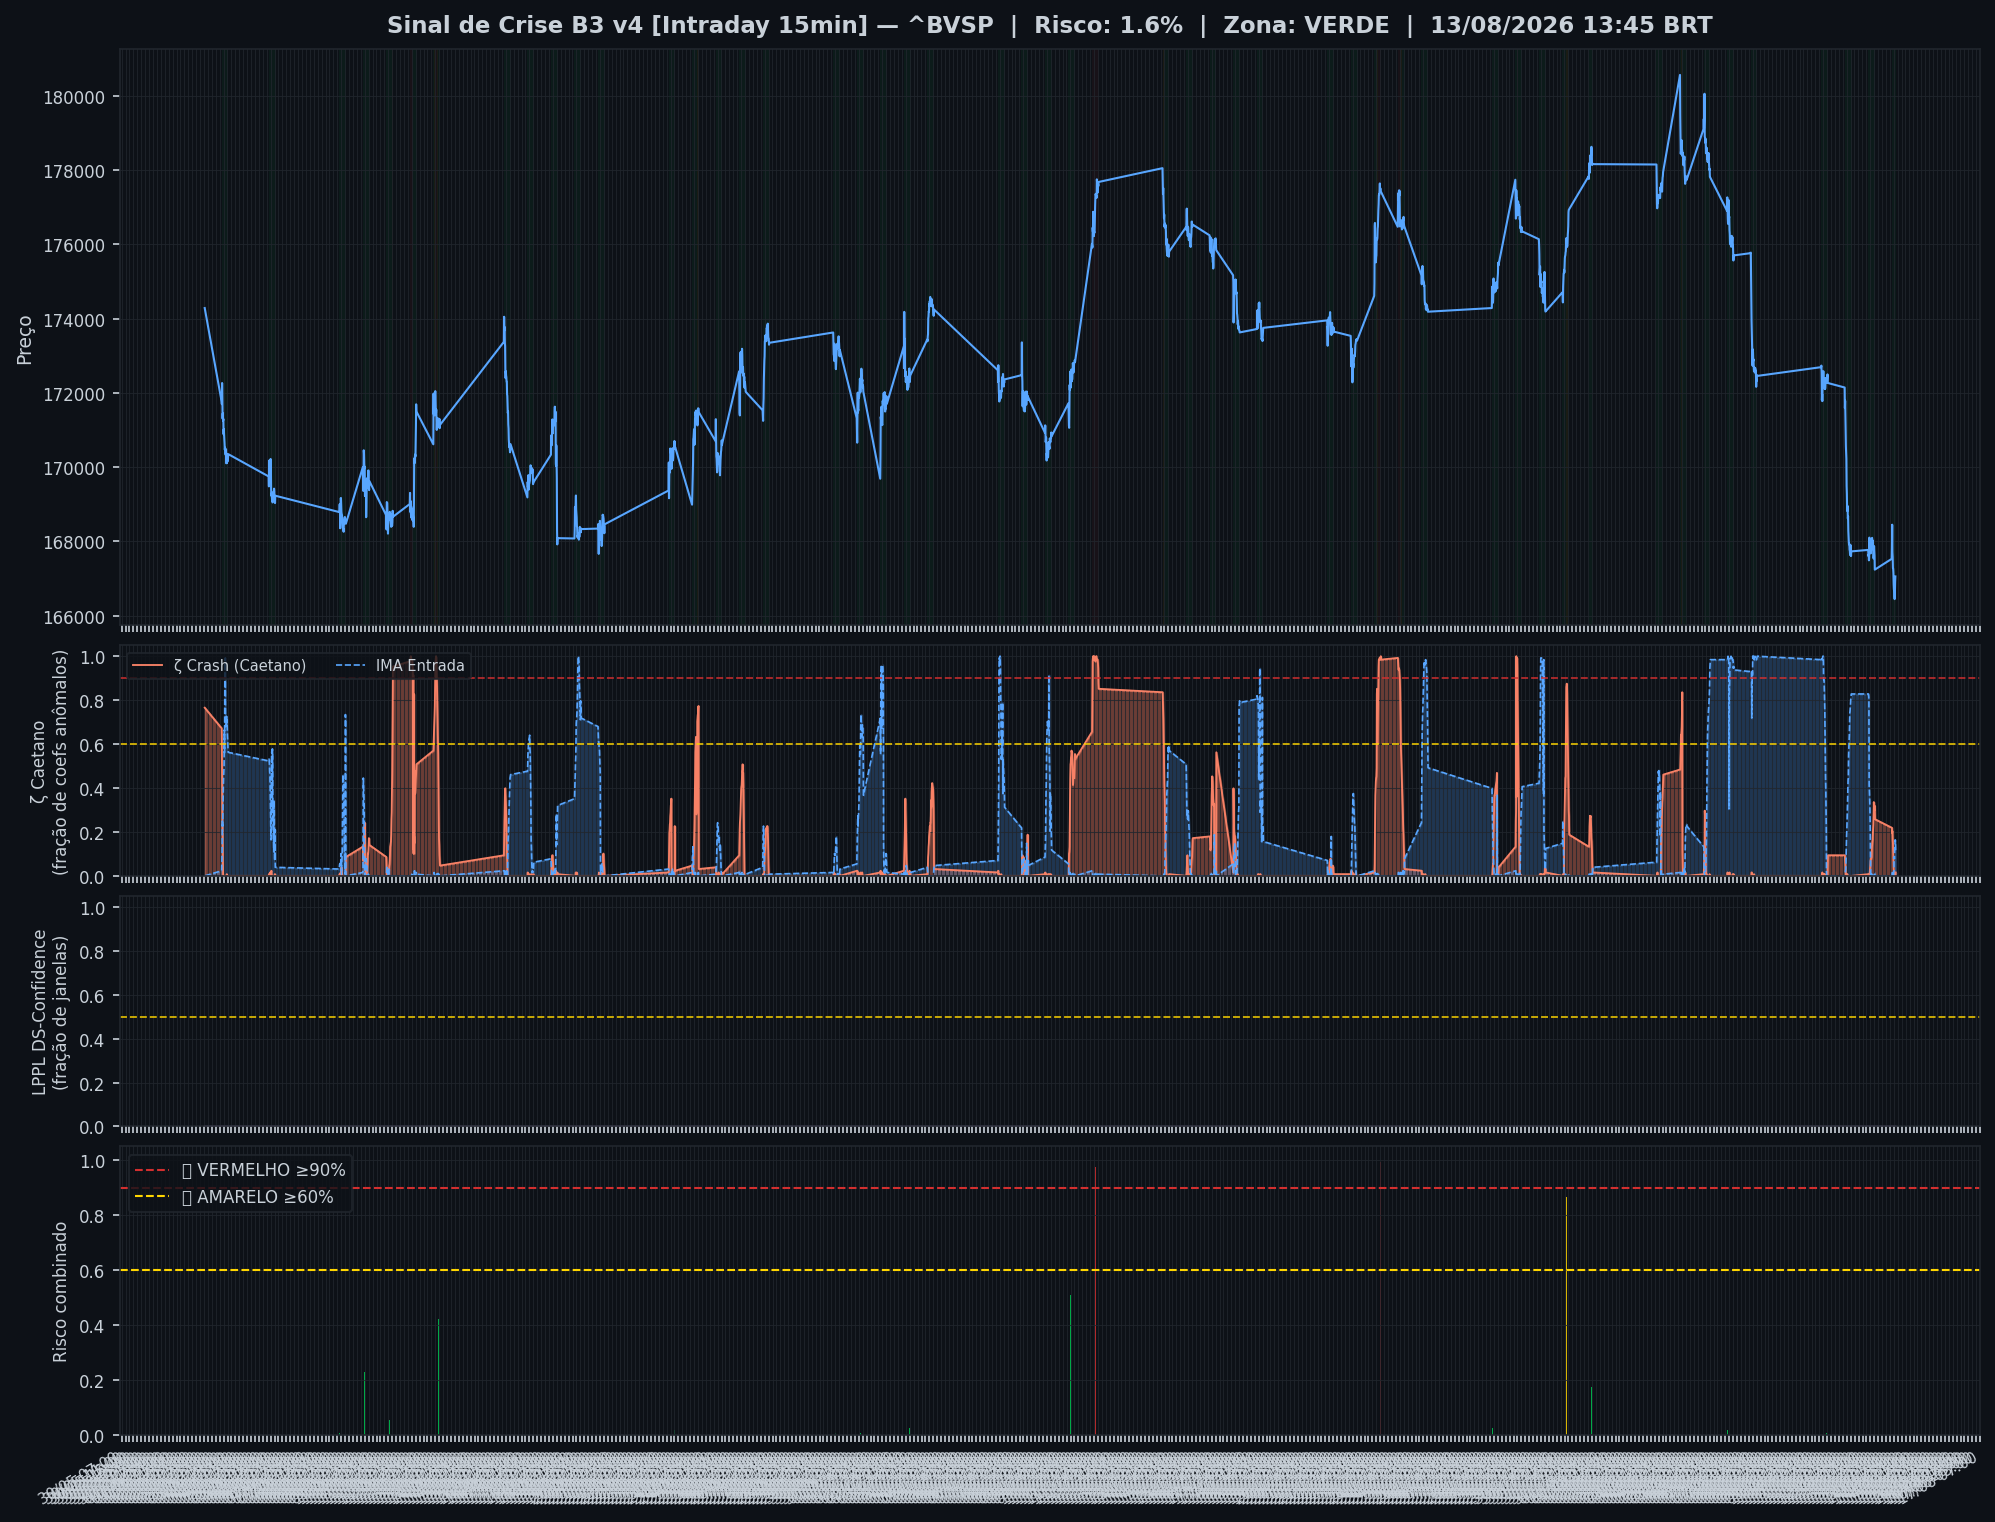
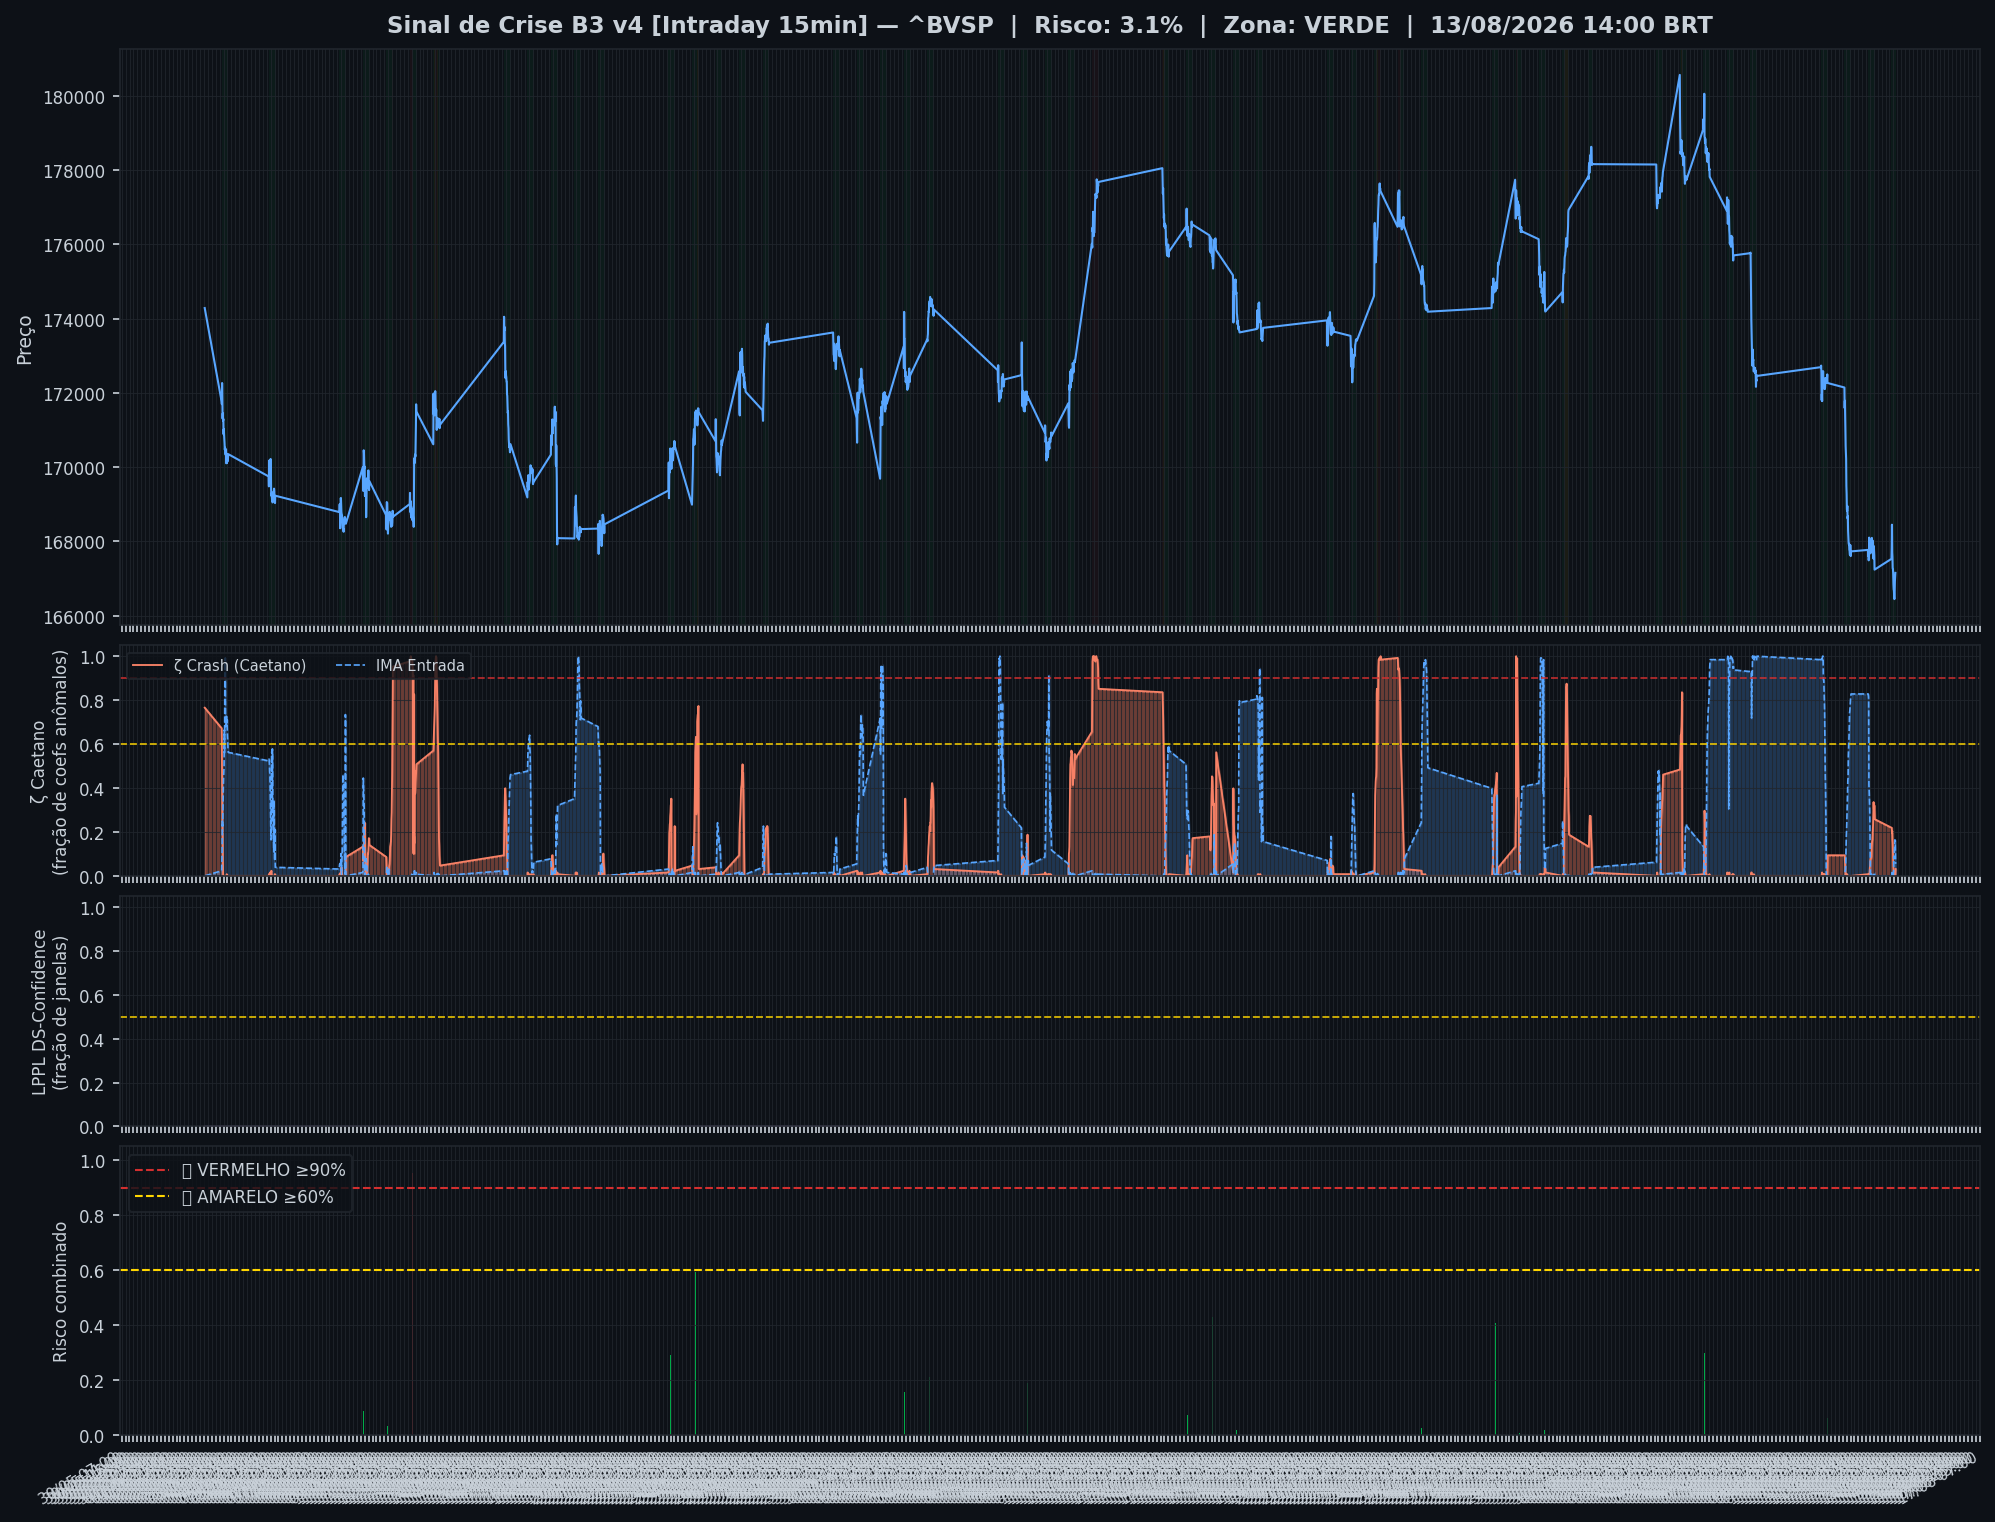
🤖 Auto: Sinal 13/08/2026 14:45

diff --git a/content/intraday/2026-08-13.md b/content/intraday/2026-08-13.md
@@ -1,20 +1,20 @@
 ---
-title: "🟢 Intraday 13/08/2026 13:45 BRT — VERDE"
+title: "🟢 Intraday 13/08/2026 14:00 BRT — VERDE"
 date: 2026-08-13
 tags: [intraday]
 ---
 
-> [!success] 🟢 **VERDE** — Risco 2% · ▲ +2 p.p. vs leitura anterior
-> `░░░░░░░░░░░░░░░░░░░░`
+> [!success] 🟢 **VERDE** — Risco 3% · ▲ +2 p.p. vs leitura anterior
+> `█░░░░░░░░░░░░░░░░░░░`
 > Mercado sem sinais relevantes de estresse.
 
 
 | Indicador | Valor |
 |---|---|
-| 🔴 ζ Crash — severidade da queda em curso | **2%** |
-| 🔵 ζ Entrada — estrutura de fundo | 12% |
+| 🔴 ζ Crash — severidade da queda em curso | **3%** |
+| 🔵 ζ Entrada — estrutura de fundo | 5% |
 | 🫧 LPPL DS-Confidence | 0% |
-| 📊 Ibovespa | 167.053 pts |
+| 📊 Ibovespa | 167.149 pts |
 
 ![Gráfico do sinal](../graficos/sinal_intraday.png)
 
@@ -22,6 +22,7 @@ tags: [intraday]
 
 | Data | Zona | Risco | IMA Crash | Entrada | LPPL |
 |---|---|---|---|---|---|
+| 2026-08-13 14:00 | 🟢 VERDE | **3%** | 3% | 5% | 0% |
 | 2026-08-13 13:45 | 🟢 VERDE | **2%** | 2% | 12% | 0% |
 | 2026-08-13 13:30 | 🟢 VERDE | **0%** | 0% | 16% | 0% |
 | 2026-08-13 13:15 | 🟢 VERDE | **0%** | 0% | 16% | 0% |
@@ -51,7 +52,6 @@ tags: [intraday]
 | 2026-08-12 14:15 | 🟢 VERDE | **16%** | 16% | 0% | 0% |
 | 2026-08-12 14:00 | 🟢 VERDE | **16%** | 16% | 0% | 0% |
 | 2026-08-12 13:45 | 🟢 VERDE | **14%** | 14% | 0% | 0% |
-| 2026-08-12 13:30 | 🟢 VERDE | **12%** | 12% | 1% | 0% |
 
 ## Monitor Multi-Ativo
 
@@ -59,36 +59,36 @@ tags: [intraday]
 
 | Zona | Ativo | Setor | IMA Crash | IMA Entrada |
 |---|---|---|---|---|
-| 🟢 | **VALE** | Mineração | 1.6% | 46.1% |
-| 🟢 | **PETROBRAS** | Petróleo | 1.6% | 46.1% |
-| 🟢 | **ITAUSA** | Financeiro | 1.6% | 46.1% |
-| 🟢 | **SUZANO S.A.** | Papel/Celulose | 1.6% | 46.1% |
-| 🟢 | **RAIADROGASIL** | Outros | 1.6% | 46.1% |
-| 🟢 | **ITAUUNIBANCO** | Financeiro | 0.8% | 51.6% |
 | 🟢 | **PETROBRAS** | Petróleo | 0.8% | 51.6% |
-| 🟢 | **AXIA ENERGIA** | Energia | 0.8% | 51.6% |
-| 🟢 | **BRADESCO** | Financeiro | 0.8% | 51.6% |
-| 🟢 | **SABESP** | Saneamento | 0.8% | 51.6% |
-| 🟢 | **B3** | Financeiro | 0.8% | 51.6% |
-| 🟢 | **WEG** | Industrial | 0.8% | 51.6% |
 | 🟢 | **EMBRAER** | Outros | 0.8% | 51.6% |
-| 🟢 | **AMBEV S/A** | Consumo | 0.8% | 51.6% |
-| 🟢 | **BTGP BANCO** | Financeiro | 0.8% | 51.6% |
-| 🟢 | **BRASIL** | Financeiro | 0.8% | 51.6% |
-| 🟢 | **ENEVA** | Energia | 0.8% | 51.6% |
-| 🟢 | **PRIO** | Petróleo | 0.8% | 51.6% |
-| 🟢 | **EQUATORIAL** | Energia | 0.8% | 51.6% |
-| 🟢 | **COPEL** | Energia | 0.8% | 51.6% |
-| 🟢 | **VIBRA** | Energia | 0.8% | 51.6% |
-| 🟢 | **REDE D OR** | Saúde | 0.8% | 51.6% |
-| 🟢 | **LOCALIZA** | Aluguel | 0.8% | 51.6% |
-| 🟢 | **ULTRAPAR** | Outros | 0.8% | 51.6% |
 | 🟢 | **GERDAU** | Siderurgia | 0.8% | 51.6% |
-| 🟢 | **USD/BRL** | Câmbio | 0.0% | 57.8% |
+| 🟢 | **VALE** | Mineração | 0.0% | 57.8% |
+| 🟢 | **ITAUUNIBANCO** | Financeiro | 0.0% | 57.8% |
+| 🟢 | **PETROBRAS** | Petróleo | 0.0% | 57.8% |
+| 🟢 | **AXIA ENERGIA** | Energia | 0.0% | 57.8% |
+| 🟢 | **BRADESCO** | Financeiro | 0.0% | 57.8% |
+| 🟢 | **SABESP** | Saneamento | 0.0% | 57.8% |
+| 🟢 | **ITAUSA** | Financeiro | 0.0% | 57.8% |
+| 🟢 | **B3** | Financeiro | 0.0% | 57.8% |
+| 🟢 | **WEG** | Industrial | 0.0% | 57.8% |
+| 🟢 | **AMBEV S/A** | Consumo | 0.0% | 57.8% |
+| 🟢 | **BTGP BANCO** | Financeiro | 0.0% | 57.8% |
+| 🟢 | **BRASIL** | Financeiro | 0.0% | 57.8% |
+| 🟢 | **ENEVA** | Energia | 0.0% | 57.8% |
+| 🟢 | **PRIO** | Petróleo | 0.0% | 57.8% |
+| 🟢 | **EQUATORIAL** | Energia | 0.0% | 57.8% |
+| 🟢 | **COPEL** | Energia | 0.0% | 57.8% |
+| 🟢 | **VIBRA** | Energia | 0.0% | 57.8% |
+| 🟢 | **REDE D OR** | Saúde | 0.0% | 57.8% |
+| 🟢 | **LOCALIZA** | Aluguel | 0.0% | 57.8% |
+| 🟢 | **ULTRAPAR** | Outros | 0.0% | 57.8% |
+| 🟢 | **SUZANO S.A.** | Papel/Celulose | 0.0% | 57.8% |
+| 🟢 | **RAIADROGASIL** | Outros | 0.0% | 57.8% |
+| 🟢 | **USD/BRL** | Câmbio | 0.0% | 62.5% |
 
 ![Monitor multi-ativo](../graficos/multi_intraday.png)
 
-*Página atualizada em 13/08/2026 14:30 BRT (leitura da barra de 2026-08-13 13:45 BRT).*
+*Página atualizada em 13/08/2026 14:45 BRT (leitura da barra de 2026-08-13 14:00 BRT).*
 
 > [!info]- Como interpretar (clique para expandir)
 > - **ζ Crash**: fração dos coeficientes wavelet acima do corte (Caetano & Yoneyama 2009). Escala absoluta: ζ=0,90 = 90% dos coeficientes anômalos — historicamente, quedas com ζ≥0,90 foram mais fundas e mais longas. **Mede a severidade do movimento em curso, não prevê o início da queda.**

diff --git a/content/index.md b/content/index.md
@@ -8,19 +8,19 @@ tags: [home]
 
 Monitoramento diário e intraday do Ibovespa — **IMA Wavelet** (Prof. Marco Antonio Leonel Caetano, ITA/INSPER) + **LPPL DS-Confidence** (Prof. Didier Sornette, ETH-Zurich).
 
-*Última atualização: 13/08/2026 14:30 BRT · ^BVSP · Intraday 15min · v4*
+*Última atualização: 13/08/2026 14:45 BRT · ^BVSP · Intraday 15min · v4*
 
-> [!success] 🟢 **VERDE** — Risco 2% · ▲ +2 p.p. vs leitura anterior
-> `░░░░░░░░░░░░░░░░░░░░`
+> [!success] 🟢 **VERDE** — Risco 3% · ▲ +2 p.p. vs leitura anterior
+> `█░░░░░░░░░░░░░░░░░░░`
 > Mercado sem sinais relevantes de estresse.
 
 
 | Indicador | Valor |
 |---|---|
-| 🔴 ζ Crash — severidade da queda em curso | **2%** |
-| 🔵 ζ Entrada — estrutura de fundo | 12% |
+| 🔴 ζ Crash — severidade da queda em curso | **3%** |
+| 🔵 ζ Entrada — estrutura de fundo | 5% |
 | 🫧 LPPL DS-Confidence | 0% |
-| 📊 Ibovespa | 167.053 pts |
+| 📊 Ibovespa | 167.149 pts |
 
 **Multi-ativo:** 0% em tensão (0🔴 0🟡 de 26 ativos)
 
@@ -32,7 +32,7 @@ Monitoramento diário e intraday do Ibovespa — **IMA Wavelet** (Prof. Marco An
 
 | Data | Zona | Risco | IMA | LPPL |
 |---|---|---|---|---|
-| [13 Aug 2026](diario/2026-08-13) | 🟢 VERDE | **2%** | 2% | 0% |
+| [13 Aug 2026](diario/2026-08-13) | 🟢 VERDE | **3%** | 3% | 0% |
 | [12 Aug 2026](diario/2026-08-12) | 🟢 VERDE | **26%** | 26% | 0% |
 
 ## Navegação

diff --git a/content/historico.md b/content/historico.md
@@ -7,6 +7,7 @@ tags: [historico]
 
 | Data | Modo | Zona | Risco | IMA | LPPL |
 |---|---|---|---|---|---|
+| 2026-08-13 14:00 | intraday | 🟢 VERDE | 3% | 3% | 0% |
 | 2026-08-13 13:45 | intraday | 🟢 VERDE | 2% | 2% | 0% |
 | 2026-08-13 13:30 | intraday | 🟢 VERDE | 0% | 0% | 0% |
 | 2026-08-13 13:15 | intraday | 🟢 VERDE | 0% | 0% | 0% |
